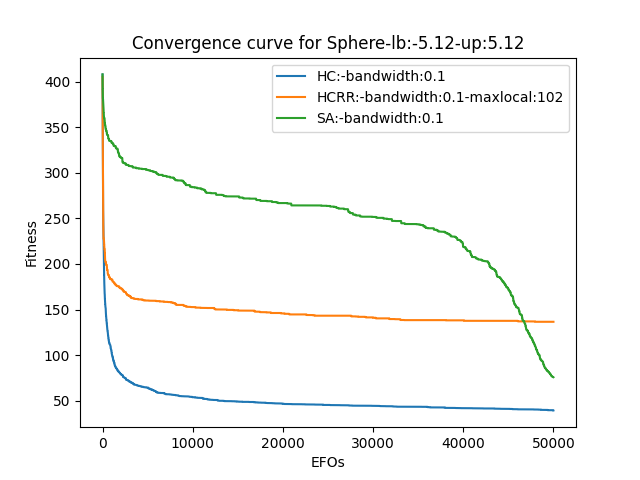
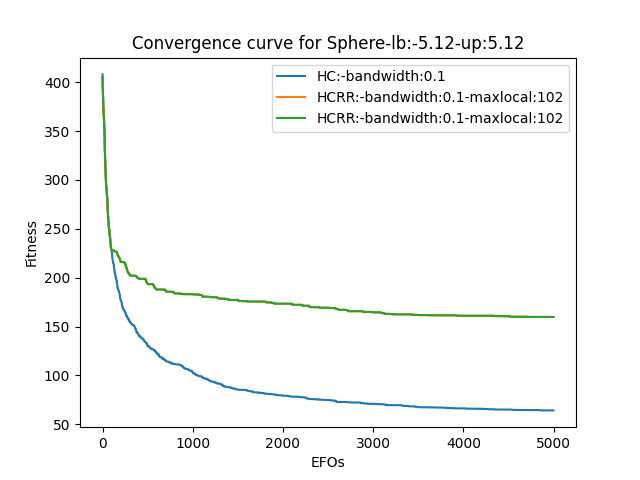
Actualizacion GRASP durante clase

diff --git a/Problema-de-la-mochila-binaria/main.py b/Problema-de-la-mochila-binaria/main.py
@@ -35,14 +35,14 @@ myP14 = knapsack(myPath + "Knapsack4.txt")
 myP15 = knapsack(myPath + "Knapsack5.txt")
 myP16 = knapsack(myPath + "Knapsack6.txt")
 # problems = [myP1, myP2, myP3, myP4, myP5, myP6, myP7,myP8, myP9, myP10, myP11, myP12, myP13, myP14, myP15]
-#problems = [myP1, myP2, myP3, myP4, myP5, myP6, myP7, myP8, myP9, myP10, myP11, myP12, myP13, myP14, myP15]
-problems = [myP1]
+problems = [myP1, myP2, myP3, myP4, myP5, myP6, myP7, myP8, myP9, myP10, myP11, myP12, myP13, myP14, myP15, myP16]
+#problems = [myP1]
 hc = HC(max_efos=max_efos)
 hcrr = HCRR(max_efos=max_efos, max_local=max_local)
 sa = SA(max_efos=max_efos)
 grasp = GRASP(max_efos=max_efos, max_local=max_local)
 #algorithms = [hc, hcrr, sa]
-algorithms = [hc, hcrr,grasp]
+algorithms = [hc, hcrr,sa, grasp]
 
 df = pd.DataFrame({'Problem': pd.Series(dtype='str'),
                    'Average Fitness': pd.Series(dtype='float'),
@@ -92,7 +92,8 @@ for p in problems:
     iter_stop = 0
     copy_iteration = 0
     detect_iter_stop = False
-
+    name_problem = ["f1", "f2", "f3", "f4", "f5", "f6", "f7", "f8", "f9",
+                    "f10", "Knapsack1", "Knapsack2", "Knapsack3", "Knapsack4", "Knapsack5", "Knapsack6"]
     for alg in algorithms:
         avg_curve = np.zeros(max_efos, float)
         best_fitnes = np.zeros(repetitions, float)
@@ -100,12 +101,14 @@ for p in problems:
 
         for s in range(0, repetitions):
             start_timer = time.time()
-            curve_data = alg.evolve(seed=s, problem=p)
+            curve_data, stop = alg.evolve(seed=s, problem=p)            
             end_timer = time.time()
+            if stop:
+                print("In " + str(name_problem[num_p])+ " " + str(alg) + " repetition "+ str(s) + " STOP")
             time_spend = end_timer - start_timer
             avg_curve = avg_curve + curve_data
             time_by_repetition[s] = time_spend
-            best_fitnes[s] = alg.best.fitness
+            best_fitnes[s] = alg.best.fitness           
 
         avg_curve = avg_curve / repetitions
         avg_best_fitnes = np.average(best_fitnes)
@@ -121,16 +124,15 @@ for p in problems:
         alg_avg_time.append(avg_time)
         total_time.append(math.fsum(time_by_repetition))
         
-    name_problem = ["f1", "f2", "f3", "f4", "f5", "f6", "f7", "f8", "f9",
-                    "f10", "Knapsack1", "Knapsack2", "Knapsack3", "Knapsack4", "Knapsack5"]
+    #name_problem = ["f1", "f2", "f3", "f4", "f5", "f6", "f7", "f8", "f9",
+    #                "f10", "Knapsack1", "Knapsack2", "Knapsack3", "Knapsack4", "Knapsack5", "Knapsack6"]
     plot_convergence_curve.plot_convergence_curve_comparison(
         avg_curve_alg, p, names_alg, name_problem[num_p], max_local)
     num_p = num_p + 1
 
     end_timer_p = time.time()
     time_p = end_timer_p - start_timer_p
-    print("Tiempo de ejecucion problema: " + str(time_p))
-
+    print("Tiempo de ejecucion " + str(name_problem[num_p]) + " : "+ str(time_p))
     new_row = pd.DataFrame({'Problem': str(p),
                             'Average Fitness': str(best_avg_fitness_alg[0]),
                             'Standard Deviation': str(best_std_fitness_alg[0]),
@@ -161,13 +163,15 @@ for p in problems:
                              }, index=[0])
     df3 = pd.concat([df3.loc[:], new_row3]).reset_index(drop=True)
 
-    # new_row4 = pd.DataFrame({'Problem': str(p),
-    #                          'Average Fitness':str(best_avg_fitness_alg[3]),
-    #                          'Standard Deviation':str(best_std_fitness_alg[3]),
-    #                          'Best Fitness':str(best_fitness_along_seeds[3]),
-    #                          'Worst Fitness':str(worst_fitness_along_seeds[3]),
-    #                          'Execution Time':str(alg_time[3])}, index=[0])
-    # df4 = pd.concat([df4.loc[:], new_row4]).reset_index(drop=True)
+    new_row4 = pd.DataFrame({'Problem': str(p),
+                             'Average Fitness': str(best_avg_fitness_alg[3]),
+                             'Standard Deviation': str(best_std_fitness_alg[3]),
+                             'Best Fitness': str(best_fitness_along_seeds[3]),
+                             'Worst Fitness': str(worst_fitness_along_seeds[3]),
+                             'Average Execution Time': str(alg_avg_time[3])
+                             #,"Total Execution Time": str(total_time[2])
+                             }, index=[0])
+    df4 = pd.concat([df4.loc[:], new_row4]).reset_index(drop=True)
     
 df.to_csv("Problema-de-la-mochila-binaria/result/HC" +
           "-max_local-" + str(max_local) + ".csv", index=False)
@@ -175,4 +179,5 @@ df2.to_csv("Problema-de-la-mochila-binaria/result/HCRR" +
            "-max_local-" + str(max_local) + ".csv", index=False)
 df3.to_csv("Problema-de-la-mochila-binaria/result/SA" +
            "-max_local-" + str(max_local) + ".csv", index=False)
-# df4.to_csv("Funciones-continuas/Compilado.csv", index=False)
+df4.to_csv("Problema-de-la-mochila-binaria/result/GRASP" +
+           "-max_local-" + str(max_local) + ".csv", index=False)

diff --git a/Problema-de-la-mochila-binaria/algorithms/GRASP.py b/Problema-de-la-mochila-binaria/algorithms/GRASP.py
@@ -12,13 +12,13 @@ class GRASP:
         np.random.seed(seed)
         best_fitness_history = np.zeros(self.max_efos, float)
         efos = 0
-        optimal = self.problem.OptimalKnown
-        stop_optimal = optimal - optimal*0.00001
+        stop_optimal = self.problem.OptimalKnown
+        self.best = solution(problem)
+        stop = False
         while efos < self.max_efos:
-            C = solution(problem)                 
+            C = solution(problem)
             S_rand = []
-            self.best = solution(problem)                 
-            S = solution(problem)  
+            S = solution(problem)
             S_copy = solution(S.problem)
             C_prima = []
             C_2_prima = []
@@ -29,38 +29,42 @@ class GRASP:
                 best_fitness_history[0] = self.best.fitness
             C_prima = C.problem.items
             for var in range(C.cells.size):
-                #print("Entra al ciclo")
-                #if S:
+                # print("Entra al ciclo")
+                # if S:
                 if not bool(C_prima):
-                    #print("C_prima Is empty")
+                    # print("C_prima Is empty")
                     break
                 else:
-                    #print("C_prima Is not empty")
-                    C_Ordernado = sorted(C_prima, key=lambda x: x[3], reverse=True)
-                    C_dos_prima = C_Ordernado[0:int(len(C_Ordernado)*0.5)+1]
-                    i = np.random.randint(len(C_dos_prima))
-                    s_random_component = C_dos_prima[i]                    
+                    # print("C_prima Is not empty")
+                    C_Ordernado = sorted(
+                        C_prima, key=lambda x: x[3], reverse=True)
+                    # C_dos_prima = C_Ordernado[0:int(len(C_Ordernado)*0.33)+1]
+                    C_dos_prima = int(len(C_Ordernado)*0.33)
+
+                    i = np.random.randint(C_dos_prima)
+                    s_random_component = C_Ordernado[i]
                     S_copy.cells = np.copy(S.cells)
-                    S_copy.cells[s_random_component[0]]=1
+                    S_copy.cells[s_random_component[0]] = 1
                     S_copy.evaluate()
-                    #S.cells[s_random_component[0]]=1
-                    #S.evaluate()
+                    # S.cells[s_random_component[0]]=1
+                    # S.evaluate()
                     weight = S_copy.weight
-                    if weight < problem.capacity: 
+                    if weight < problem.capacity:
                         if not bool(S_rand):
                             S_rand.append(s_random_component)
-                            continue     
-                        S_rand.append(s_random_component)      
+                            continue
+                        S_rand.append(s_random_component)
                         S_set = {tuple(sublista) for sublista in S_rand}
-                        C_sin_repeticiones = [sublista for sublista in C.problem.items if tuple(sublista) not in S_set]
-                        C_prima = C_sin_repeticiones  
-                        S.cells[s_random_component[0]]=1                      
-                        print(S)
+                        C_sin_repeticiones = [
+                            sublista for sublista in C.problem.items if tuple(sublista) not in S_set]
+                        C_prima = C_sin_repeticiones
+                        S.cells[s_random_component[0]] = 1
+                        # print(S)
                     else:
-                        print("No es factible")
+                        # print("No es factible")
                         S.evaluate()
                         weight = S.weight
-                        break                    
+                        break
 
             for opt in range(1, self.max_local):
                 R = solution(S.problem)
@@ -75,10 +79,11 @@ class GRASP:
                 if S.fitness >= stop_optimal:
                     best_fitness_history[efos:self.max_efos] = self.best.fitness
                     efos = self.max_efos
+                    stop = True
                     break
                 if efos >= self.max_efos:
-                    break        
-        return best_fitness_history
+                    break
+        return best_fitness_history, stop
 
     def __str__(self):
         result = "GRASP-maxlocal:" + str(self.max_local)

diff --git a/Problema-de-la-mochila-binaria/algorithms/SA.py b/Problema-de-la-mochila-binaria/algorithms/SA.py
@@ -11,15 +11,15 @@ class SA:
         to = 100
         self.problem = problem
         np.random.seed(seed)
-        best_fitness_history = np.zeros(self.max_efos, float)
-        optimal = self.problem.OptimalKnown
-        stop_optimal = optimal - optimal*0.00001
+        best_fitness_history = np.zeros(self.max_efos, float)        
+        stop_optimal = self.problem.OptimalKnown
         S = solution(self.problem)
         S.Initialization()
         best_fitness_history[0] = S.fitness
         self.best = solution(self.problem)
         self.best.from_solution(S)  # self.best is a full copy of S
         t = to
+        stop = False
         for iteration in range(1, self.max_efos):
             R = solution(S.problem)
             R.from_solution(S)  # R is a full copy of S
@@ -35,8 +35,9 @@ class SA:
             if S.fitness >= stop_optimal:
                 best_fitness_history[iteration:self.max_efos] = self.best.fitness
                 iteration = self.max_efos
+                stop = True
                 break
-        return best_fitness_history
+        return best_fitness_history, stop
 
     def __str__(self):
         result = "SA"

diff --git a/Problema-de-la-mochila-binaria/algorithms/HCRR.py b/Problema-de-la-mochila-binaria/algorithms/HCRR.py
@@ -12,8 +12,9 @@ class HCRR:
         np.random.seed(seed)
         best_fitness_history = np.zeros(self.max_efos, float)
         efos = 0
-        optimal = self.problem.OptimalKnown
-        stop_optimal = optimal - optimal*0.00001
+        stop_optimal = self.problem.OptimalKnown
+        #stop_optimal = optimal - 0.00001
+        stop = False
         while efos < self.max_efos:
 
             S = solution(problem)  # S is a new Solution
@@ -35,11 +36,12 @@ class HCRR:
                 efos += 1
                 if S.fitness >= stop_optimal:
                     best_fitness_history[efos:self.max_efos] = self.best.fitness
+                    stop = True
                     efos = self.max_efos
                     break
                 if efos >= self.max_efos:
                     break
-        return best_fitness_history
+        return best_fitness_history, stop
 
     def __str__(self):
         result = "HCRR-maxlocal:" + str(self.max_local)

diff --git a/Problema-de-la-mochila-binaria/algorithms/HC.py b/Problema-de-la-mochila-binaria/algorithms/HC.py
@@ -16,8 +16,8 @@ class HC:
         best_fitness_history[0] = self.best.fitness
 
         S = self.best  # S is a pointer to self.best, not a full copy
-        optimal = S.problem.OptimalKnown
-        stop_optimal = optimal - 0.00001
+        stop_optimal = S.problem.OptimalKnown
+        stop = False
         for iteration in range(1, self.max_efos):
             R = solution(S.problem)
             R.from_solution(S)  # R is a full copy of S
@@ -28,8 +28,9 @@ class HC:
             if S.fitness >= stop_optimal:
                 best_fitness_history[iteration:self.max_efos] = self.best.fitness
                 iteration = self.max_efos
+                stop = True
                 break
-        return best_fitness_history
+        return best_fitness_history, stop
 
     def __str__(self):
         result = "HC:"

diff --git a/Funciones-continuas/main.py b/Funciones-continuas/main.py
@@ -14,7 +14,7 @@ from algorithms.SA import SA
 from algorithms.GRASP import GRASP
 
 d = 50
-max_efos = 50000
+max_efos = 5000
 repetitions = 31
 
 # Afinamiento de parametros
@@ -26,10 +26,10 @@ functions = [sphere()]
 hc = HC(max_efos = max_efos, bandwidth = bw)
 hcrr = HCRR(max_efos= max_efos, max_local = max_local, bandwidth = bw)
 sa = SA(max_efos = max_efos, bandwidth = bw)
-grasp = GRASP(max_efos = max_efos, bandwidth = bw)
+grasp = GRASP(max_local = max_local, max_efos = max_efos, bandwidth = bw)
 #algorithms = [hc, hcrr, sa]
 
-algorithms = [grasp]
+algorithms = [hc, hcrr, grasp]
 
 df = pd.DataFrame({'Problem': pd.Series(dtype='str'),
                    'Average Fitness': pd.Series(dtype='float'),

diff --git a/Problema-de-la-mochila-binaria/knapsack.py b/Problema-de-la-mochila-binaria/knapsack.py
@@ -37,8 +37,8 @@ class knapsack:
         fitness = -1
         if weight <= self.capacity:
             fitness = (cells * self.profits).sum()
-        else:
-            print('Error')
+        #else:
+            #print("Error")
         return fitness, weight
 
     def __str__(self):
